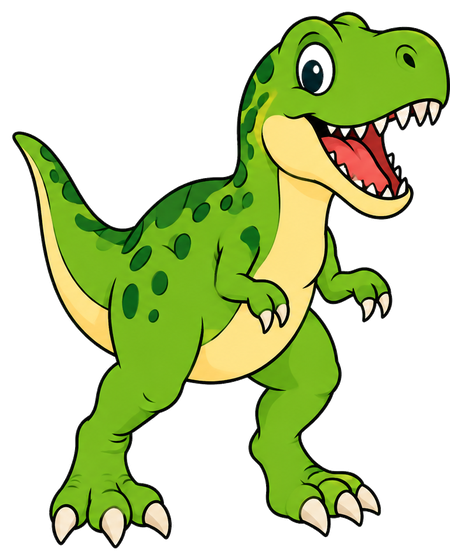
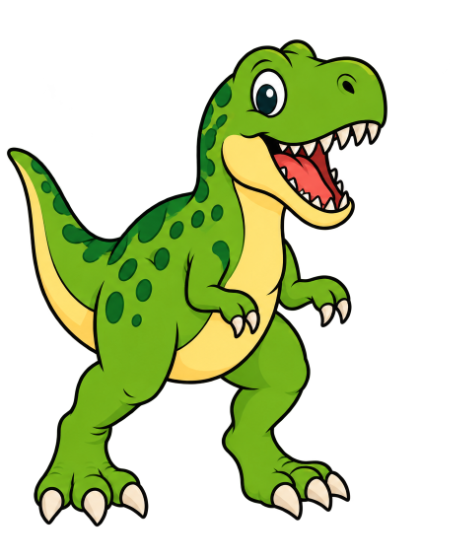
Add files via upload

diff --git a/index.html b/index.html
@@ -411,9 +411,9 @@ function dinoImage(percent, opts={}){
   const sadClass = opts.sad ? ' sad' : '';
   return `
   <div class="dino-stack">
-    <img class="dino-img dino-outline" src="dino-outline.svg" alt="">
+    <img class="dino-img dino-outline" src="dino-outline.png" alt="">
     <div class="dino-color-clip" style="clip-path: inset(${hiddenFromTop}% 0 0 0);">
-      <img class="dino-img dino-color${sadClass}" src="dino-color.svg" alt="">
+      <img class="dino-img dino-color${sadClass}" src="dino-color.png" alt="">
     </div>
     ${opts.sad ? `
     <svg class="dino-tears" viewBox="0 0 450 560" xmlns="http://www.w3.org/2000/svg">
